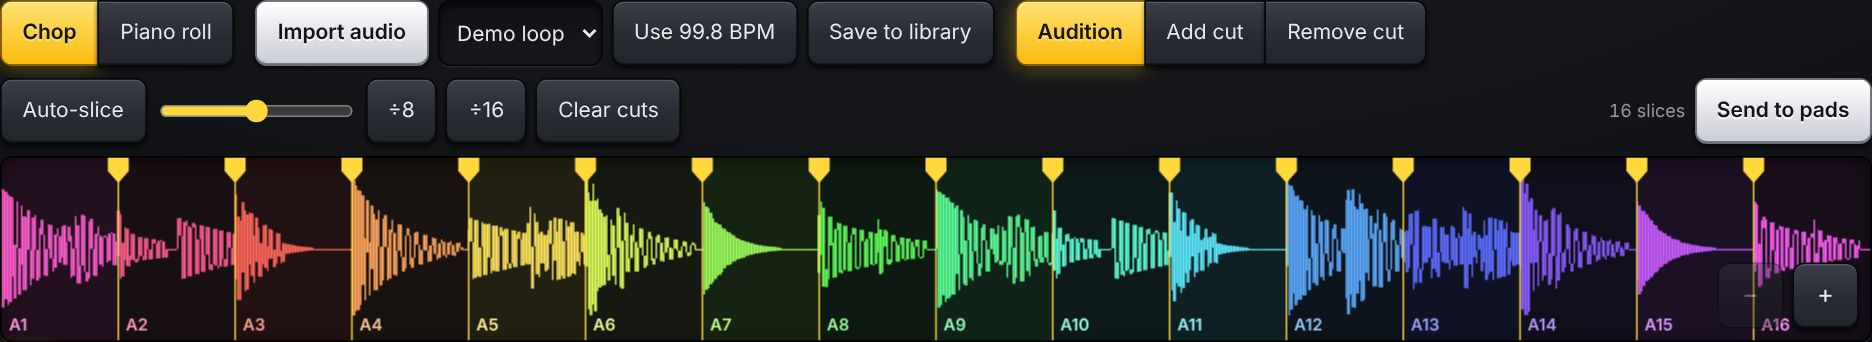
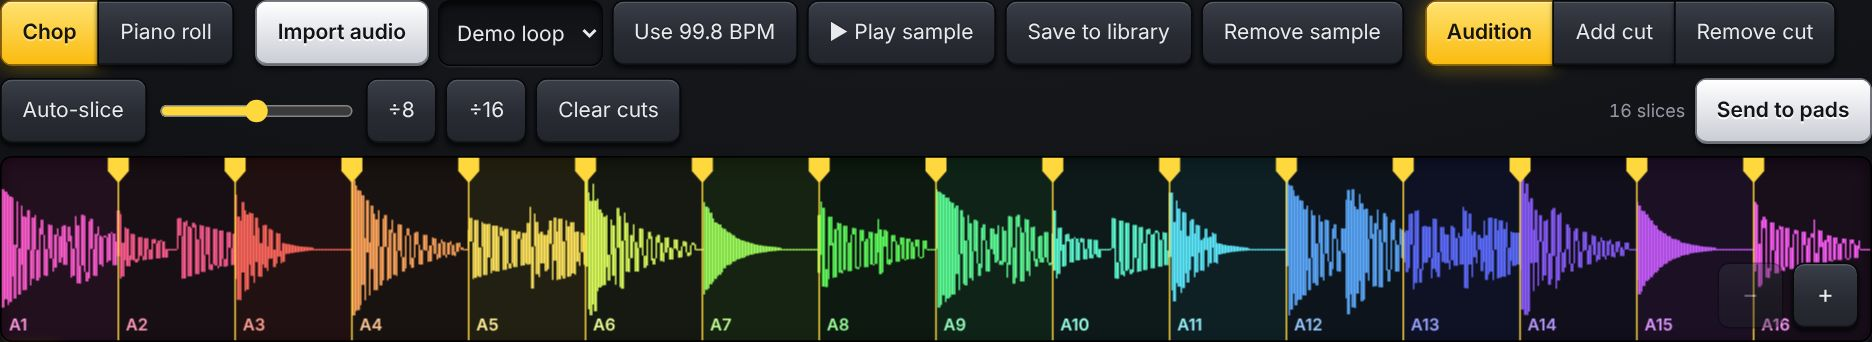
Add Play sample, Remove sample and New; fix stale per-frame readers
Play sample plays the whole track in the chop view with a moving line and a
Stop. Remove sample and New (clear everything) need two taps and are undoable.
useTick now always reads through the latest closure, which fixes controls that
went stale after switching sample (Stop restarted the track instead).

Claude-Session: https://claude.ai/code/session_014U757u7JTaETU7etEsYnQJ

Changed region(s): [[0.4338, 0.0, 0.9915, 0.2339]]

diff --git a/src/ui/App.tsx b/src/ui/App.tsx
@@ -26,14 +26,17 @@ import type { Tool } from './Waveform';
 
 const useProject = () => useSyncExternalStore(subscribe, getProject);
 function useTick<T>(read: () => T): T {
-  // Re-read a fast-changing engine value every animation frame.
+  // Re-read a fast-changing engine value every animation frame. The latest `read` is used each frame,
+  // so a value that depends on props (which sample, which pad) never goes stale.
   const [v, setV] = useState(read);
+  const latest = useRef(read);
+  latest.current = read;
   useEffect(() => {
     let raf = 0;
-    const loop = () => { setV(read()); raf = requestAnimationFrame(loop); };
+    const loop = () => { setV(latest.current()); raf = requestAnimationFrame(loop); };
     raf = requestAnimationFrame(loop);
     return () => cancelAnimationFrame(raf);
-  }, []); // eslint-disable-line
+  }, []);
   return v;
 }
 
@@ -174,6 +177,7 @@ function Transport({ p, say, chat, toggleChat, openSheet }: { p: Project; say: (
         <button id="export" className="btn primary" disabled={busy}
           onClick={async () => { setBusy(true); try { say(await exportLoopWav()); } catch { say('Export failed. Try again.'); } setBusy(false); }}>
           {busy ? 'Rendering…' : inArtifact() ? 'Export loop' : 'Export WAV'}</button>
+        <TwoTap id="new-project" label="New" confirm="Tap again: clear everything" onConfirm={() => { engine.stop(); engine.stopPreview(); dispatch('project.reset'); say('Everything is cleared. Undo brings it all back. Save to the Library first if you want to keep a copy.'); }} />
         <button id="library" className="btn" onClick={() => openSheet('library')}>Library</button>
         <button id="assistant" className={chat ? 'btn on' : 'btn'} aria-pressed={chat} onClick={toggleChat}>Assistant</button>
         <button id="guide" className="btn" onClick={() => openSheet('guide')}>Guide</button>
@@ -210,7 +214,9 @@ function ChopBar({ p, tool, setTool, say, switcher }: { p: Project; tool: Tool; 
         )}
         {s?.bpm && <button className="btn" title="Set the project tempo to this sample's detected tempo"
           onClick={() => dispatch('project.setBpm', { bpm: s.bpm })}>Use {s.bpm} BPM</button>}
+        {s && <PreviewButton id={s.id} />}
         {s && <button id="save-sample" className="btn" onClick={async () => say(await saveSampleToLibrary(s.id))}>Save to library</button>}
+        {s && <TwoTap id="remove-sample" label="Remove sample" confirm="Tap again to remove" onConfirm={() => { engine.stopPreview(); dispatch('sample.remove', { id: s.id }); say(`"${s.name}" removed, and any pads using it were emptied. Undo brings it back.`); }} />}
       </div>
       {s && (
         <>
@@ -517,4 +523,20 @@ function Planned({ id, back }: { id: string; back: () => void }) {
       </div>
     </section>
   );
+}
+
+/** Plays the whole sample shown in the chop view, from the start, with a moving line on the waveform. */
+function PreviewButton({ id }: { id: string }) {
+  const playing = useTick(() => engine.previewPosition() !== null && engine.preview?.sampleId === id);
+  return (
+    <button id="preview" className={playing ? 'btn on' : 'btn'} aria-pressed={playing}
+      onClick={() => (playing ? engine.stopPreview() : engine.previewSample(id, 0))}>{playing ? '■ Stop' : '▶ Play sample'}</button>
+  );
+}
+
+/** A button that needs a second tap within a few seconds, for anything that clears work. */
+function TwoTap({ id, label, confirm, onConfirm }: { id: string; label: string; confirm: string; onConfirm: () => void }) {
+  const [armed, setArmed] = useState(false);
+  useEffect(() => { if (!armed) return; const t = setTimeout(() => setArmed(false), 3500); return () => clearTimeout(t); }, [armed]);
+  return <button id={id} className={armed ? 'btn danger armed' : 'btn'} onClick={() => { if (armed) { setArmed(false); onConfirm(); } else setArmed(true); }}>{armed ? confirm : label}</button>;
 }

diff --git a/src/audio/engine.ts b/src/audio/engine.ts
@@ -514,9 +514,35 @@ export class Engine {
     if (!buf) return;
     const now = this.ctx.currentTime;
     this.auditionVoice?.stop(now);
+    this.preview = null; // a slice audition replaces a whole-sample preview
     const plain: Pad = { ...getProject().pads[0], sampleId, start, end, gain: 1, semitones: 0, reverse: false, steps: [] };
     plain.fx = defaultFx();
     this.auditionVoice = playPadVoice(this.mixer, -1, buf, null, plain, now, 1);
+  }
+
+  /** What the chop view's Play button is playing: which sample, from where, and since when (for the moving line). */
+  preview: { sampleId: string; from: number; startedAt: number; end: number } | null = null;
+  /** Play a sample from `from` seconds to its end, without effects. Calling it again restarts; stopPreview stops. */
+  previewSample(sampleId: string, from = 0) {
+    if (!this.ctx) return;
+    const buf = this.buffers.get(sampleId);
+    if (!buf) return;
+    const start = Math.max(0, Math.min(from, buf.duration - 0.01));
+    this.audition(sampleId, start, buf.duration);
+    this.preview = { sampleId, from: start, startedAt: this.ctx.currentTime, end: buf.duration };
+  }
+  stopPreview() {
+    if (!this.ctx) return;
+    this.auditionVoice?.stop(this.ctx.currentTime);
+    this.auditionVoice = null;
+    this.preview = null;
+  }
+  /** Seconds into the previewed sample right now, or null when nothing is previewing (or it reached the end). */
+  previewPosition(): number | null {
+    if (!this.ctx || !this.preview) return null;
+    const t = this.preview.from + (this.ctx.currentTime - this.preview.startedAt);
+    if (t >= this.preview.end) { this.preview = null; return null; }
+    return t;
   }
 
   /** Play a whole buffer once through the studio output (library preview). Returns a function that stops it. */
@@ -605,3 +631,5 @@ export class Engine {
 }
 
 export const engine = new Engine();
+// Lets the browser checks confirm sound is really coming out (reads the meters; changes nothing).
+if (typeof window !== 'undefined') (window as unknown as { __levels: () => number[] }).__levels = () => engine.levels();

diff --git a/src/ui/Waveform.tsx b/src/ui/Waveform.tsx
@@ -17,6 +17,21 @@ export function Waveform({ sample, project, tool }: { sample: Sample; project: P
   const [view, setView] = useState({ start: 0, end: sample.duration });
   const [drag, setDrag] = useState<{ index: number; time: number } | null>(null);
   const [flash, setFlash] = useState<number | null>(null);
+  const head = useRef<HTMLDivElement>(null);
+  useEffect(() => { // moving line while the Play button is previewing this sample
+    let raf = 0;
+    const loop = () => {
+      const el = head.current, t = engine.previewPosition();
+      if (el) {
+        const on = t !== null && engine.preview?.sampleId === sample.id && t >= view.start && t <= view.end;
+        el.hidden = !on;
+        if (on) el.style.transform = `translateX(${((t! - view.start) / (view.end - view.start)) * size.w}px)`;
+      }
+      raf = requestAnimationFrame(loop);
+    };
+    raf = requestAnimationFrame(loop);
+    return () => cancelAnimationFrame(raf);
+  }, [sample.id, view, size.w]);
 
   useEffect(() => { setView({ start: 0, end: sample.duration }); }, [sample.id, sample.duration]);
   useEffect(() => {
@@ -107,6 +122,7 @@ export function Waveform({ sample, project, tool }: { sample: Sample; project: P
     <div className="wave">
       <div className="wave-canvas" ref={wrap}>
         <canvas ref={canvas} style={{ width: size.w, height: size.h }} onPointerDown={down} onPointerMove={move} onPointerUp={up} onPointerCancel={up} />
+        <div className="wave-head" ref={head} hidden />
         <div className="wave-zoom">
           <button className="btn icon" aria-label="Zoom out" disabled={!zoomed} onClick={() => zoom(2)}>−</button>
           <button className="btn icon" aria-label="Zoom in" onClick={() => zoom(0.5)}>+</button>

diff --git a/src/ui/styles.css b/src/ui/styles.css
@@ -408,3 +408,6 @@ select, input[type="number"], .text, .chat-form textarea, .chat-key input {
 a.btn { display: inline-flex; align-items: center; text-decoration: none; color: inherit; }
 .steps-list { margin: 0; padding-left: 20px; display: flex; flex-direction: column; gap: 4px; }
 @media (max-aspect-ratio: 1/1), (max-width: 640px) { .suno { grid-template-columns: minmax(0, 1fr); overflow-y: auto; } .suno-builder, .suno-side { overflow: visible; } }
+
+.wave-head { position: absolute; top: 0; bottom: 0; left: 0; width: 2px; background: #fff; box-shadow: 0 0 8px #fff; pointer-events: none; }
+.btn.armed { background: linear-gradient(180deg, hsl(355 85% 58%), hsl(355 75% 42%)); color: #fff; border-color: hsl(355 70% 22%); text-shadow: none; }
